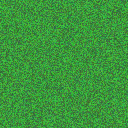
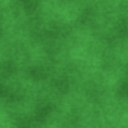
Generate seamless grass tile with tileable noise and lighting

diff --git a/make_grass.py b/make_grass.py
@@ -1,17 +1,86 @@
 import numpy as np
 import matplotlib.pyplot as plt
+from scipy.ndimage import gaussian_filter
 
-# Generate a grass-like noise texture
+# -------------------------
+# Tile size
+# -------------------------
 width, height = 128, 128
-red = np.random.randint(40, 80, (height, width))
-green = np.random.randint(100, 200, (height, width))
-blue = np.random.randint(40, 80, (height, width))
+rng = np.random.default_rng()  # better RNG
 
-# Stack into RGB image
-grass = np.stack((red, green, blue), axis=2).astype(np.uint8)
+# -------------------------
+# Helpers
+# -------------------------
+def norm01(a: np.ndarray) -> np.ndarray:
+    a = a.astype(np.float32)
+    return (a - a.min()) / (np.ptp(a) + 1e-6)
 
-# Save to file
-output_path = 'pygrass_tile.png'
-plt.imsave(output_path, grass)
+def wrapped_blur(a: np.ndarray, sigma):
+    # mode="wrap" is the key to seamless tiling
+    return gaussian_filter(a, sigma=sigma, mode="wrap")
 
+# -------------------------
+# Base grass color (float)
+# -------------------------
+base_green = rng.uniform(125, 165)
+base = np.zeros((height, width, 3), dtype=np.float32)
+base[..., 1] = base_green
+base[..., 0] = base_green * 0.45
+base[..., 2] = base_green * 0.45
 
+# -------------------------
+# Seamless noise layers
+# -------------------------
+low = wrapped_blur(rng.random((height, width)), sigma=6)
+low = norm01(low)
+
+high = wrapped_blur(rng.random((height, width)), sigma=1)
+high = norm01(high)
+
+# Blade directionality: blur more along x than y (or vice versa)
+# To suggest blades, streak primarily in one axis.
+blade = wrapped_blur(rng.random((height, width)), sigma=(0.6, 2.8))
+blade = norm01(blade)
+
+# Combine
+variation = 0.60 * low + 0.30 * high + 0.10 * blade
+variation = norm01(variation)
+
+# -------------------------
+# Periodic lighting (tileable)
+# -------------------------
+# Cosine fields repeat at edges -> seamless
+yy = np.linspace(0, 2 * np.pi, height, endpoint=False)[:, None]
+xx = np.linspace(0, 2 * np.pi, width,  endpoint=False)[None, :]
+
+light = (
+    1.0
+    + 0.03 * np.cos(yy)          # gentle vertical lighting
+    + 0.02 * np.cos(xx * 1.0)    # gentle horizontal lighting
+    + 0.01 * np.cos(xx + yy)     # subtle diagonal variation
+).astype(np.float32)
+
+variation = np.clip(variation * light, 0.0, 1.0)
+
+# -------------------------
+# Apply variation
+# -------------------------
+grass = base * (0.78 + 0.42 * variation[..., None])
+
+# -------------------------
+# Tileable color jitter derived from seamless noise
+# -------------------------
+# Instead of independent random jitter per channel, use wrapped noise so edges match.
+hue_noise = wrapped_blur(rng.random((height, width)), sigma=2)
+hue_noise = norm01(hue_noise)
+
+grass[..., 1] *= (0.95 + 0.10 * hue_noise)   # green varies most
+grass[..., 0] *= (0.90 + 0.06 * hue_noise)
+grass[..., 2] *= (0.90 + 0.06 * hue_noise)
+
+grass = np.clip(grass, 0, 255).astype(np.uint8)
+plt.imsave("pygrass_tile.png", grass)
+
+# Optional: quick visual sanity check (writes a 5x5 tiled preview)
+preview = np.tile(grass, (5, 5, 1))
+plt.imsave("pygrass_tile_preview_5x5.png", preview)
